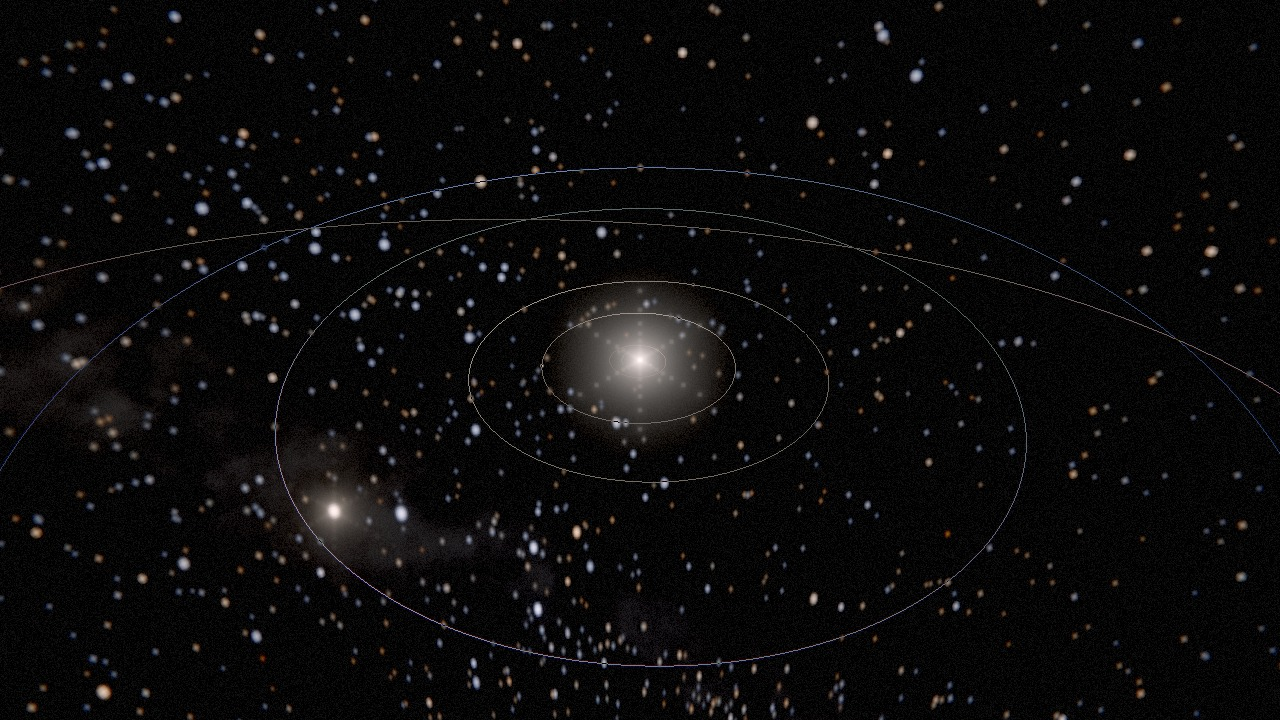
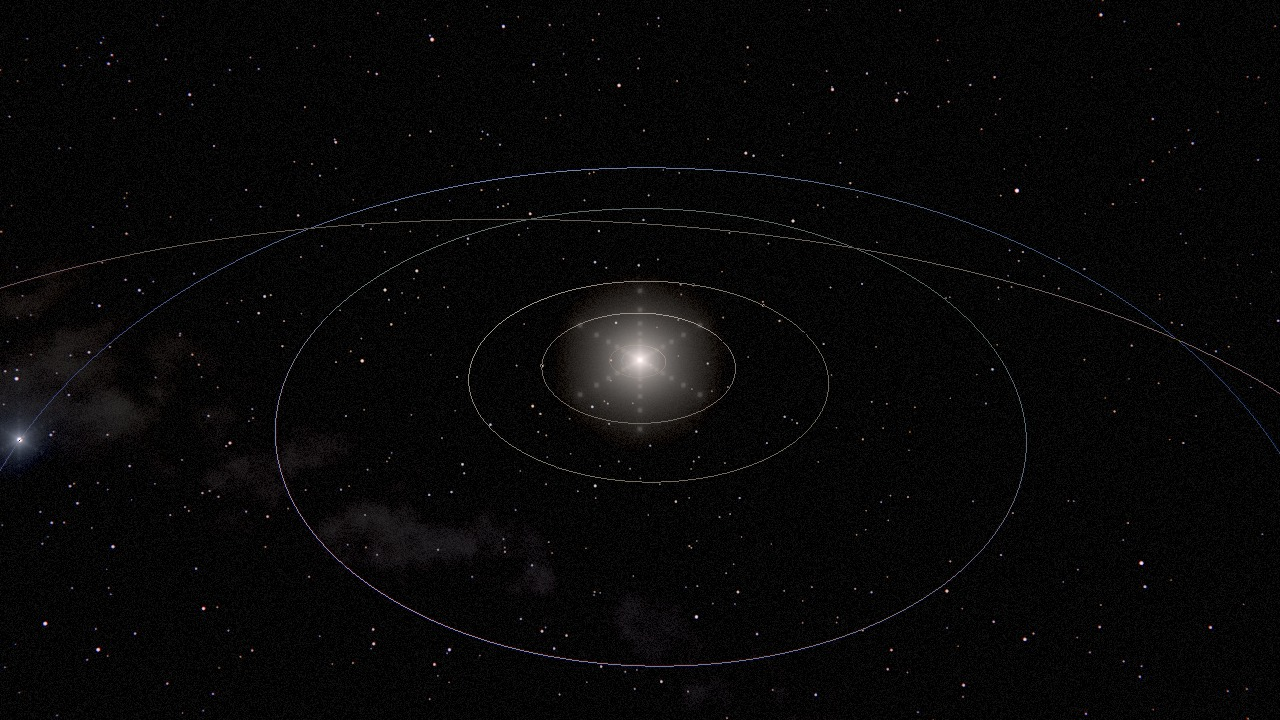
docs: re-render the imagery against the fixed renderer
All six shots regenerated now that the stars are drawn rather than
sampled, the beacon term is gated, the Sun is metered on disc fill and
ringshine is weighted by ring opacity. Every one of those defects was
found by looking at these pictures; the test suite was green throughout.

Also drops a stray sun.png left over from the switch to JPEG, corrects
the Jupiter and Sun captions, and updates the unit test count.

Claude-Session: https://claude.ai/code/session_01TcPBD1e7ZLDjrKdbqtY3mF

diff --git a/docs/README.md b/docs/README.md
@@ -34,9 +34,9 @@ and the real Viking mosaic only appear when you open it in a browser.
 | | |
 |---|---|
 | ![Saturn](images/saturn.jpg) | ![Jupiter](images/jupiter.jpg) |
-| **Saturn.** The ring shadow on the cloud tops and the planet's shadow on the rings are the same occlusion term, evaluated in both directions. The Cassini Division is a low-opacity row in the ring table, not a texture. | **Jupiter.** The bands are warped in longitude only, which is what makes them shear rather than smear — the cheapest convincing model of a zonal wind. Any moon between the Sun and the disc casts a real shadow on it. |
+| **Saturn.** The ring shadow on the cloud tops and the planet's shadow on the rings are the same occlusion term, evaluated in both directions. The Cassini Division is a low-opacity row in the ring table, not a texture. | **Jupiter.** The bands are warped in longitude only, which is what makes them shear rather than smear — the cheapest convincing model of a zonal wind. The oblateness is not stylised: the equatorial radius really is 6.5 per cent larger than the polar one. The ring is barely there, which is correct — see the note on ring opacity in [the science page](science.md#rings). |
 | ![Mars](images/mars.jpg) | ![The Sun](images/sun.jpg) |
-| **Mars.** The thin atmosphere uses Mars's own Rayleigh coefficients, which is why the limb is dusty rather than blue. In a browser the surface is the Viking MDIM 2.1 colour mosaic from NASA Trek, stitched from WMTS tiles at load time; here it is the procedural fallback. | **The Sun.** Limb darkening is the quadratic law, 1 − 0.47(1−μ) − 0.23(1−μ)²; the corona is a separate radial term outside the disc. The exposure is metered on how much of the frame the disc fills, so it closes by a factor of thirty as you approach — exactly as a camera's would. |
+| **Mars.** The thin atmosphere uses Mars's own Rayleigh coefficients, which is why the limb is dusty rather than blue. In a browser the surface is the Viking MDIM 2.1 colour mosaic from NASA Trek, stitched from WMTS tiles at load time; here it is the procedural fallback. | **The Sun.** Limb darkening is the quadratic law, 1 − 0.47(1−μ) − 0.23(1−μ)²; the corona is a separate radial term outside the disc. The exposure is metered on how much of the frame the disc fills, so it closes by a factor of sixty as you approach — exactly as a camera's would. |
 
 ---
 

diff --git a/README.md b/README.md
@@ -131,11 +131,11 @@ Two deliberate departures from physics, both documented in the interface and swi
 
 ```bash
 npm run check      # lint, locales, scientific data, unit tests
-npm test           # 194 unit tests
+npm test           # 195 unit tests
 npm run test:e2e   # 38 browser tests with real WebGL2
 ```
 
-- **194 unit tests** covering the Kepler solver against its own residual, orbital energy and angular momentum conservation, planet positions against JPL Horizons reference vectors, the PNG encoder against the reference CRC-32, the camera basis for orthonormality, and every locale for plural correctness.
+- **195 unit tests** covering the Kepler solver against its own residual, orbital energy and angular momentum conservation, planet positions against JPL Horizons reference vectors, the PNG encoder against the reference CRC-32, the camera basis for orthonormality, and every locale for plural correctness.
 - **38 end-to-end tests** in a real browser with real WebGL2 (ANGLE over SwiftShader, so no GPU needed): the shaders compile, the frame contains a lit planet, a 1080p export is a structurally valid PNG of exactly the right size, tiled rendering leaves no seam, all ten languages render with no untranslated keys, and every interactive control has an accessible name. **All external network access is blocked during the run** — the app is built to work from committed data, so an offline test is both valid and repeatable.
 - **A scientific data validator** that cross-checks every number against physics rather than against itself: density from mass and radius, orbital periods from Kepler's third law, every satellite inside its planet's Hill sphere and outside the Roche limit. It has already caught two real modelling errors — one of which correctly identified that Phobos orbits *inside* Mars's fluid Roche limit.
 - **A focused linter** for the mistakes that break a deployed static site: root-absolute paths, unresolvable imports, `innerHTML`, and any fetch host missing from the Content Security Policy.

diff --git a/CHANGELOG.md b/CHANGELOG.md
@@ -65,7 +65,7 @@ The first release.
 ### Engineering
 
 - No build step, no runtime dependencies, no framework.
-- 194 unit tests and 38 browser tests, the latter with all external network
+- 195 unit tests and 38 browser tests, the latter with all external network
   access blocked.
 - A scientific data validator that checks numbers against physics.
 - A focused linter for the mistakes that break a deployed static site.
